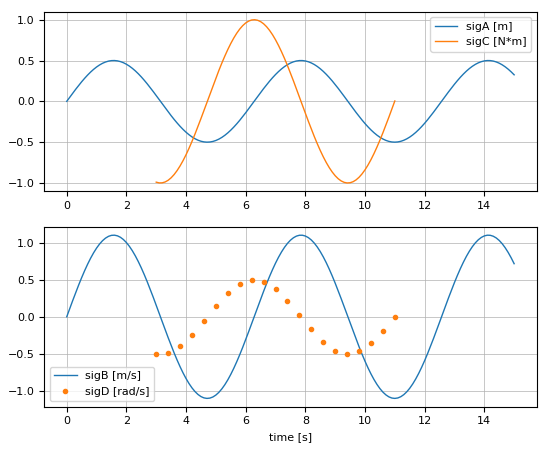
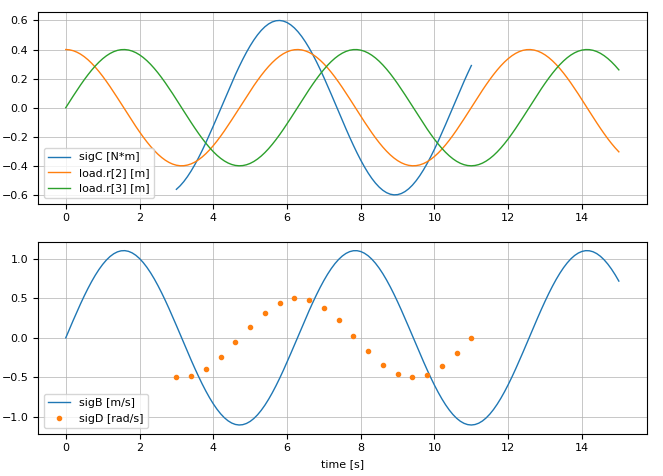
Docu improved

Changed region(s): [[0.0, 0.0, 0.9909, 0.4667], [0.0, 0.4978, 0.9909, 0.9956]]

diff --git a/docs/src/index.md b/docs/src/index.md
@@ -81,10 +81,13 @@ attributes                                 Par  info="This is a test signal tabl
 The commands
 
 ```julia
+using SignalTable
 usePlotPackage("PyPlot")    # or ENV["SignalTablesPlotPackage"] = "PyPlot"
-...
-@usingPlotPackage                                     # = using SignalTablesInterface_PyPlot
-plot(sigTable, [("sigA", "sigB", "sigC"), "r[2:3]"])  # generate line plots
+
+include("$(SignalTable.path)/test/SignalTable3.jl")
+
+@usingPlotPackage                           # = using SignalTablesInterface_PyPlot
+plot(sigTable, [("sigC", "load.r[2:3]"), ("sigB", "sigD")])  # generate line plots
 ```
 
 generate the following line plot:
@@ -95,25 +98,28 @@ generate the following line plot:
 
 - [`SignalTable`](@ref) (included in SignalTables.jl).
 
-Planned implementations (basically adapting from ModiaResult.jl):
+  Planned implementations (basically adapting from [ModiaResult.jl](https://github.com/ModiaSim/ModiaResult.jl)):
 
-- [Modia.jl](https://github.com/ModiaSim/Modia.jl) (a modeling and simulation environment)
-- [DataFrames.jl](https://github.com/JuliaData/DataFrames.jl)
-  (tabular data; first column is independent variable; *only scalar variables*))
-- [Tables.jl](https://github.com/JuliaData/Tables.jl)
-  (abstract tables, e.g. [CSV](https://github.com/JuliaData/CSV.jl) tables;
-  first column is independent variable; *only scalar variables*).
+  - [Modia.jl](https://github.com/ModiaSim/Modia.jl) (a modeling and simulation environment)
+  - [DataFrames.jl](https://github.com/JuliaData/DataFrames.jl)
+    (tabular data; first column is independent variable; *only scalar variables*))
+  - [Tables.jl](https://github.com/JuliaData/Tables.jl)
+    (abstract tables, e.g. [CSV](https://github.com/JuliaData/CSV.jl) tables;
+    first column is independent variable; *only scalar variables*).
 
 *Concrete implementations* of the [Abstract Line Plot Interface](@ref) are provided for:
 
-Planned implementations (basically adapting from ModiaResult.jl):
+- [PyPlot](https://github.com/JuliaPy/PyPlot.jl) (plots with [Matplotlib](https://matplotlib.org/stable/) from Python;
+  via [SignalTablesInterface_PyPlot.jl](https://github.com/ModiaSim/SignalTablesInterface_PyPlot.jl)),
 
-- [PyPlot](https://github.com/JuliaPy/PyPlot.jl) (plots with [Matplotlib](https://matplotlib.org/stable/) from Python),
+Planned implementations (basically adapting from [ModiaResult.jl](https://github.com/ModiaSim/ModiaResult.jl)):
+
+
 - [GLMakie](https://github.com/JuliaPlots/GLMakie.jl) (interactive plots in an OpenGL window),
 - [WGLMakie](https://github.com/JuliaPlots/WGLMakie.jl) (interactive plots in a browser window),
 - [CairoMakie](https://github.com/JuliaPlots/CairoMakie.jl) (static plots on file with publication quality).
 
-Furthermore, there is a dummy implementation included in SignalTables that is useful when performing tests with runtests.jl,
+Furthermore, there is a dummy implementation included in SignalTables.jl that is useful when performing tests with runtests.jl,
 in order that no plot package needs to be loaded during the tests:
 
 - SilentNoPlot (= all plot calls are silently ignored).
@@ -180,7 +186,27 @@ are different to the Python 2.x version.
 
 ### Version 0.1.0
 
-- Initial version (based on [ModiaResult.jl](https://github.com/ModiaSim/ModiaResult.jl).
+Initial version, based on [ModiaResult.jl](https://github.com/ModiaSim/ModiaResult.jl).
+Changes with respect to ModiaResult.jl:
+
+Underlying data format made much simpler and more useful:
+
+- Dictionary of * multi-dimensional arrays* that have the *same first dimension* and can have *missing values.
+- Also parameters can be stored in the dictionary and are supported, e.g., for plotting.
+- Variables and parameters are dictionaries that store the actual values (e.g. arrays), and additional attributes.
+- Values are stored without units and the units are provided via the additional string attribute `:unit`. A unit can be 
+  either hold for all elements of an array, or an array of units can be provided defining the units for all variable elements.
+- A new function to *flatten* and convert a signal array for use in line plots or traditional tables.
+- Since signals are arrays with the same first dimension, all the Julia array operations can be directly used,
+  e.g. for post-processing of simulation results.
+
+Furthermore
+
+- Documentation considerably improved and made more user-oriented.
+- The Abstract Interfaces defined more clearly.
+- Several annoying bugs of ModiaResult.jl are no longer present.
+
+
 
 
 ## Main developer

diff --git a/README.md b/README.md
@@ -9,23 +9,16 @@ Typically, simulation results, reference signals, and table-based input signals
 can be represented by a *signal table*. More specifically:
 
 A *signal table* is a (dictionary-like) type that supports the [Abstract Signal Table Interface](@ref)
-for example [`SignalTable`](@ref). It defines a set of *signals* in tabular format. A *signal* is identified
-by its String *name* and is a representation of the values of a variable ``v`` as a (partial) function ``v(t)``
-of the independent variable ``t = v_{independent}``.
-
-The values of ``v(t)`` are stored with key `:values` in dictionary [`Var`](@ref) (= abbreviation for *Variable*)
-and are represented by an array where `v.values[i,j,k,...]` is element `v[j,k,...]` of
-variable ``v`` at ``t_i``. If an element of ``v`` is *not defined* at
-``t_ì``, it has a value of *missing*.\
-If ``v(t) = v_{const}`` is constant, it is stored in element `:value` in dictionary [`Par`](@ref)
-(= abbreviation for *Parameter*) and is represented by any Julia type where
-`v.value` is the value of ``v_{const}`` at all elements ``t_i``.
+for example [`SignalTable`](@ref). A *signal* is identified by its string *name* and is either
+a [`Var`](@ref) dictionary with a signal array or a [`Par`](@ref) dictionary with a constant value of
+any type. In both dictionaries, additional attributes can be stored, e.g., units, description text,
+signal variability (continuous, clocked, trigger, ...). A signal array has indices `[i,j,k,...]`
+to hold variable elements `j,k,...` at the i-th value of the independent variable (which is often "time").
 
 Example:
 
 ```julia
 using SignalTables
-using Unitful
 
 t = 0.0:0.1:0.5
 sigTable = SignalTable(

diff --git a/docs/src/Functions/SignalTables.md b/docs/src/Functions/SignalTables.md
@@ -22,7 +22,7 @@ The functions below operate on a *signal table* that implements the [Abstract Si
 | [`getValuesWithUnit`](@ref)     | Returns the *values* of a [`Var`](@ref) signal from a signal table including its unit.         |
 | [`getValue`](@ref)              | Returns the *value* of a [`Par`](@ref) signal  from a signal table.                            |
 | [`getValueWithUnit`](@ref)      | Returns the *value* of a [`Par`](@ref) signal from a signal table including its unit.          |
-| [`getSignalForLinePlots`](@ref) | Transforms signal data and returns it for use in line plots (e.g. Matrix with NaN).            |
+| [`getFlattenedSignal`](@ref)    | Returns a copy of a signal where the values or the value are *flattened* and converted for use in line plots or traditional tables. |
 
 
 ```@docs
@@ -36,5 +36,5 @@ getValues
 getValuesWithUnit
 getValue
 getValueWithUnit
-getSignalForLinePlots
+getFlattenedSignal
 ```

diff --git a/docs/src/Functions/Overview.md b/docs/src/Functions/Overview.md
@@ -45,7 +45,7 @@ If ``v(t) = v_{const}`` is constant, it is stored in element `:value` in diction
 | [`getValuesWithUnit`](@ref)     | Returns the *values* of a [`Var`](@ref) signal from a signal table including its unit.         |
 | [`getValue`](@ref)              | Returns the *value* of a [`Par`](@ref) signal  from a signal table.                            |
 | [`getValueWithUnit`](@ref)      | Returns the *value* of a [`Par`](@ref) signal from a signal table including its unit.          |
-| [`getSignalForLinePlots`](@ref) | Transforms signal data and returns it for use in line plots (e.g. Matrix with NaN).            |
+| [`getFlattenedSignal`](@ref)    | Returns a copy of a signal where the values or the value are *flattened* and converted for use in line plots or traditional tables. |
 
 
 | Plot package functions           | Description                                               |
